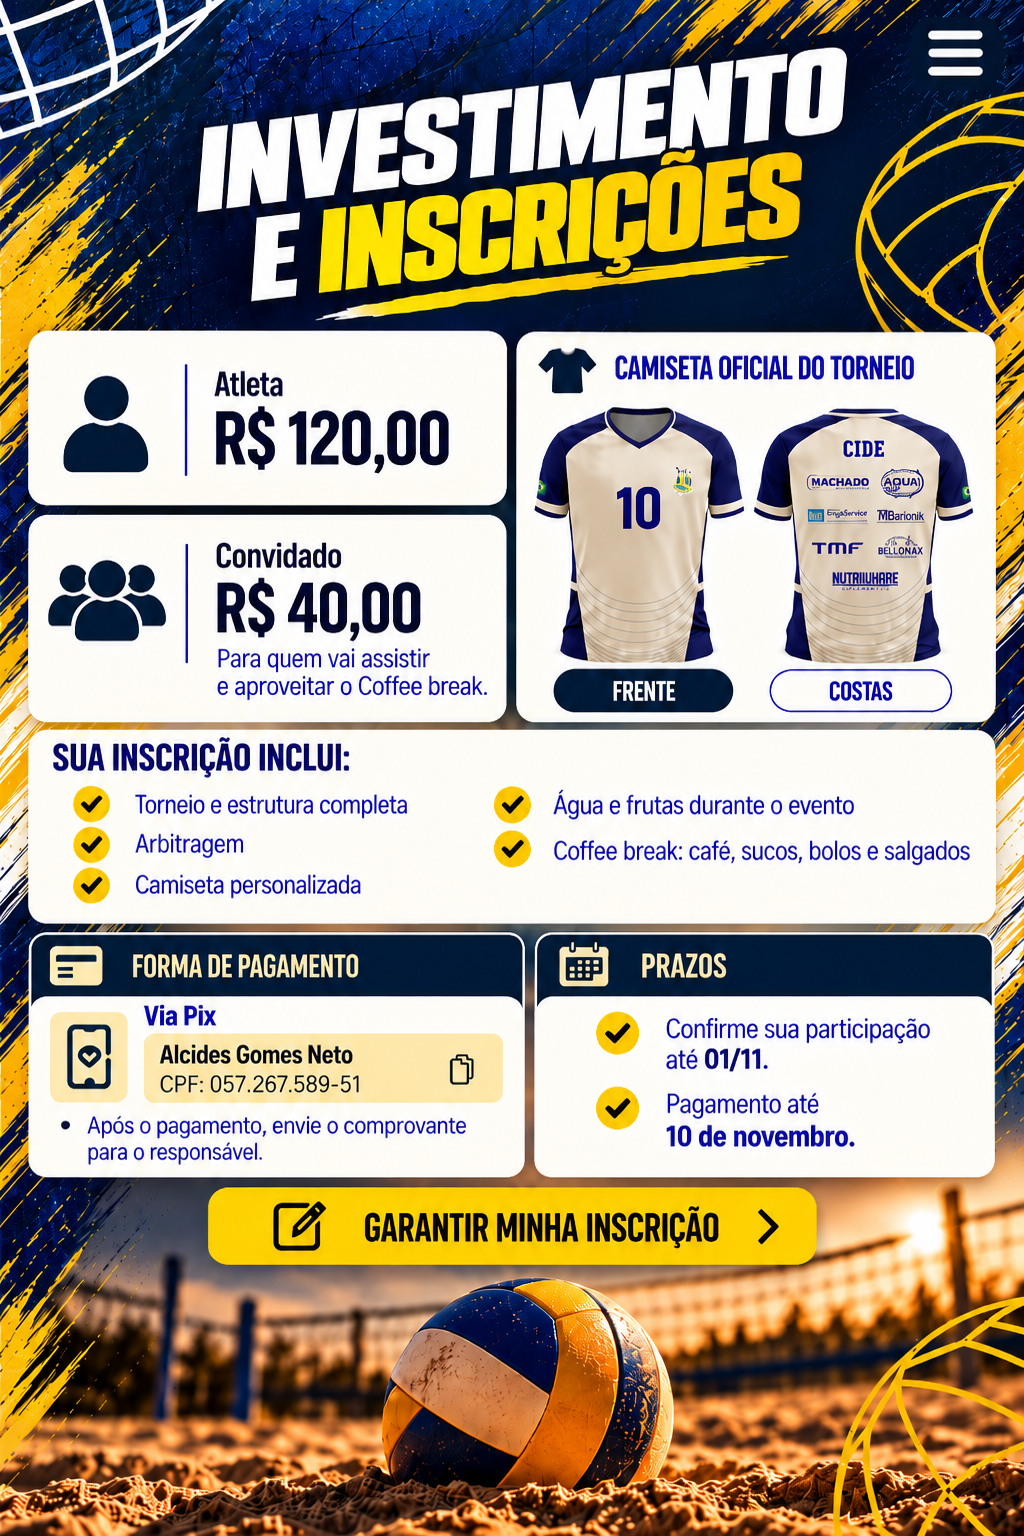
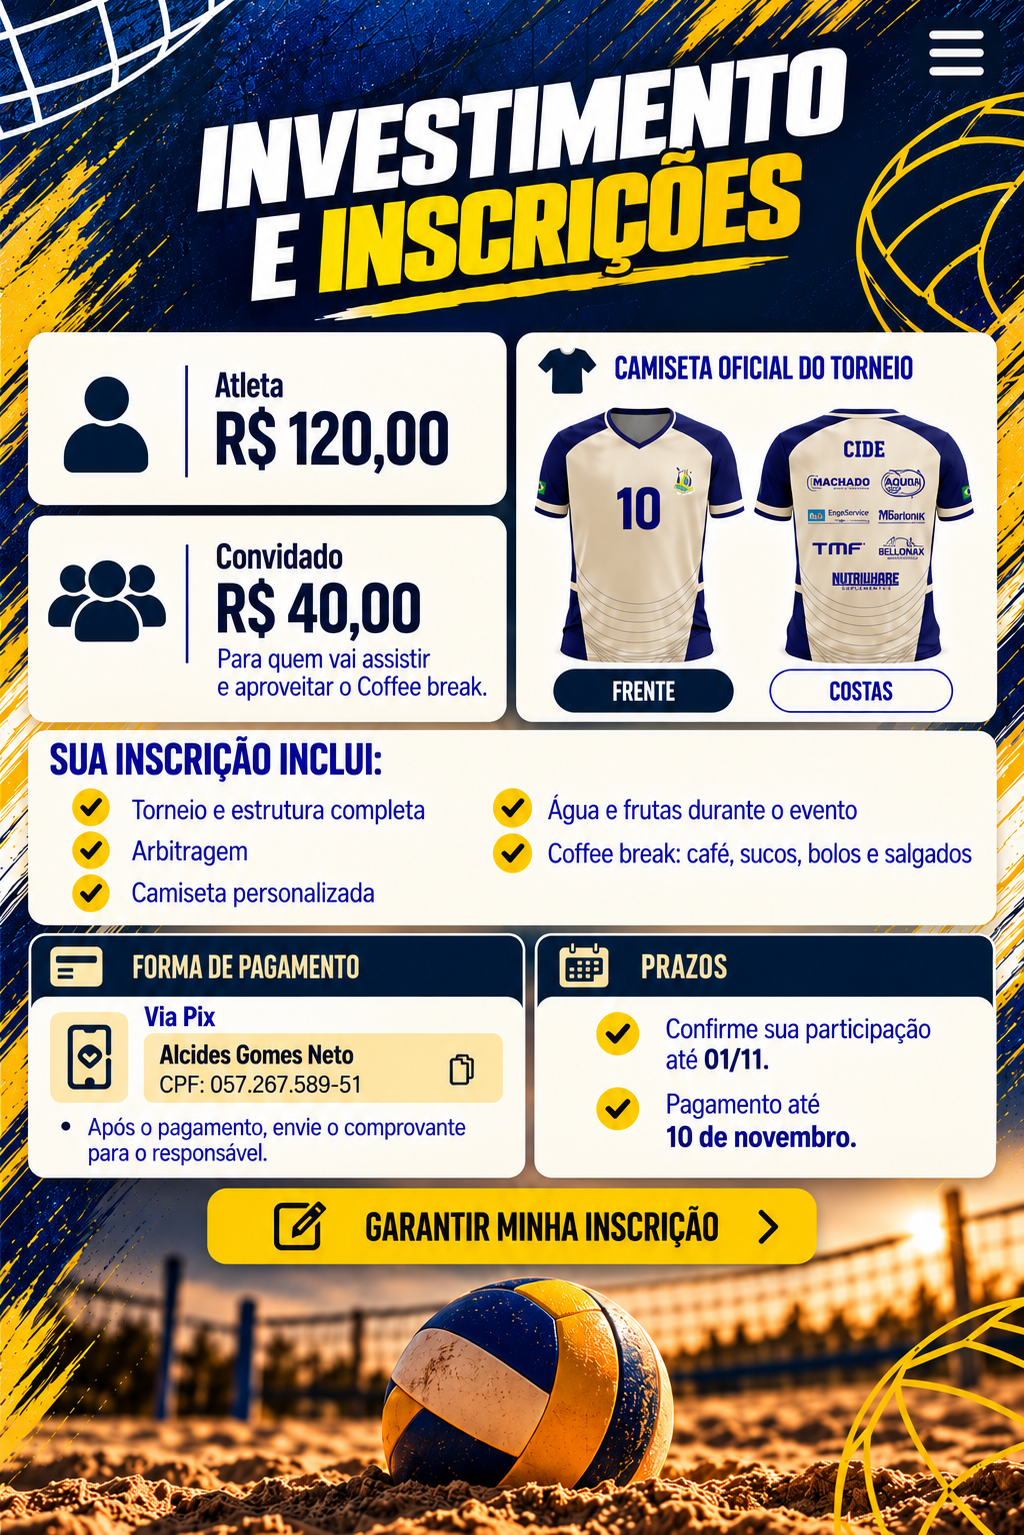
Add files via upload

diff --git a/index.html b/index.html
@@ -24,17 +24,70 @@ main{max-width:650px;margin:auto;position:relative;background:#061737;min-height
 .countdown-unit{border:1.5px solid #ffce17;border-radius:10px;background:#061735;color:#ffce17;font-size:clamp(18px,4.5vw,30px);font-weight:900;font-variant-numeric:tabular-nums;padding:8px 2px 7px;box-shadow:0 4px 12px #0006}
 .countdown-unit small{display:block;color:#ffffff;font-size:clamp(7px,1.5vw,10px);font-weight:800;letter-spacing:0;margin-top:4px}
 .countdown-finished{grid-column:1/-1;background:#ffffff;color:#061735;border:1px solid #ffce17;border-radius:10px;padding:12px;font-weight:900;font-size:clamp(12px,3vw,18px)}
+
+/* Seção Times e Chaveamento: imagem aprovada e abas funcionais */
+#timeschaveamento{background:#f9f6ec;min-height:100dvh}
+.tc-poster{display:block;width:100%;height:auto}
+.tc-chaves{display:none;min-height:100dvh;padding:110px 20px 36px;background:linear-gradient(145deg,#fffdf6,#fff5db);color:#061b42;line-height:1.35;position:relative}
+.tc-chaves h1{font-size:clamp(28px,7vw,46px);font-weight:1000;line-height:1.05;margin:0 0 18px;color:#061b42}
+.tc-tabs{display:flex;gap:8px;margin:0 0 24px}
+.tc-tabs button{flex:1;border:2px solid #061b42;border-radius:20px;padding:12px 4px;font-weight:900;color:#061b42;background:white;cursor:pointer;font-size:clamp(12px,3vw,18px)}
+.tc-tabs button.active{background:#ffca08;border-color:#ffca08}
+.tc-round{background:white;border:1px solid #f3d98a;border-radius:16px;padding:14px;margin-bottom:14px;box-shadow:0 6px 15px #0a193b1a}
+.tc-round h2{font-size:18px;background:#ffca08;display:inline-block;padding:5px 14px;margin:0 0 10px;border-radius:8px}
+.tc-match{display:flex;align-items:center;justify-content:space-between;gap:6px;padding:9px 0;border-top:1px solid #e9e2d1;font-size:clamp(11px,2.8vw,16px);font-weight:800}
+.tc-match span{flex:1}.tc-match span:last-child{text-align:right}.tc-match b{color:#df9600}
+.tc-note{font-size:14px;margin:0 0 20px}
+.tc-menu-fixed{position:absolute;right:4%;top:2%;width:12%;height:5%;border:0;background:transparent;cursor:pointer;z-index:4}
+.tc-menu-chaves{position:absolute;right:20px;top:20px;background:#ffca08;border:0;border-radius:12px;padding:10px 16px;font-weight:900;cursor:pointer}
+
+/* Abas visuais e funcionais, reproduzindo o modelo aprovado */
+.tc-switch{position:absolute;z-index:5;left:3%;right:3%;display:flex;align-items:center;height:5.05%;border:2px solid #071b42;border-radius:999px;background:#fffdfa;box-shadow:0 4px 8px #0002;overflow:hidden;line-height:1}
+.tc-switch button{width:50%;height:100%;border:0;background:transparent;color:#071b42;display:flex;align-items:center;justify-content:center;gap:clamp(4px,1.4vw,11px);font-family:Arial,sans-serif;font-size:clamp(12px,3.6vw,23px);font-style:italic;font-weight:900;cursor:pointer;white-space:nowrap;padding:0 4px}
+.tc-switch button.selected{background:linear-gradient(120deg,#ffcf00,#ffb900);border-radius:999px;box-shadow:0 3px 8px #0003}
+.tc-switch svg{width:clamp(19px,5vw,37px);height:clamp(19px,5vw,37px);fill:currentColor;stroke:currentColor;flex-shrink:0}
+.tc-switch button:focus-visible{outline:3px solid #f5a900;outline-offset:-4px}
+.tc-switch-times{top:25.75%}.tc-switch-chaves{top:14.25%}
+
+/* Vídeo inserido abaixo da arte do menu, sem deslocar os botões e o contador */
+.menu-art{position:relative;width:100%;line-height:0}
+.video-section{position:relative;background:linear-gradient(160deg,#061737,#0c3470);padding:22px 18px 32px;line-height:1.4;text-align:center;border-top:3px solid #ffcb05}
+.video-section h2{margin:0 0 16px;color:#ffcb05;font-size:clamp(18px,4vw,26px);font-weight:900;letter-spacing:.035em}
+.video-section video{display:block;width:min(100%,380px);max-height:75dvh;aspect-ratio:480/856;object-fit:contain;margin:0 auto;background:#020a1a;border:2px solid #ffcb05;border-radius:15px;box-shadow:0 12px 28px #0007}
+
+/* Página de vídeo com arte aprovada e vídeo ampliado */
+#videoabertura{background:#06152f}
+.video-art{position:relative;width:100%;line-height:0}
+.video-art>.poster{width:100%;display:block}
+.video-large{position:absolute;left:7%;top:12%;width:86%;height:69%;display:flex;align-items:center;justify-content:center;line-height:normal}
+.video-large video{width:100%;height:100%;object-fit:contain;background:#000;border:3px solid #ffc800;border-radius:15px;box-shadow:0 12px 35px #000a}
+.video-sound{position:absolute;top:3%;right:3%;z-index:2;border:1px solid #ffcc00;background:#061a3b;color:white;border-radius:25px;padding:10px 14px;font-weight:800;cursor:pointer}
+.video-next{position:absolute;left:17%;top:84%;width:66%;height:8.4%;background:transparent;border:0;cursor:pointer}
+.video-next:focus-visible{outline:3px solid white;outline-offset:2px}
+@media(min-width:700px){.video-large{left:8%;width:84%;top:13%;height:68%}}
 </style></head><body>
 <main>
-<section class="page active" id="inicio"><img class="poster" src="imagens/inicio.png" alt="Abertura do 2º Torneio Vôlei de Sexta"><button class="hit" style="left:18%;top:82%;width:64%;height:8%" aria-label="Entrar no evento" onclick="go('menu')"></button></section>
-<section class="page" id="menu"><img class="poster" src="imagens/menu.png" alt="Menu do torneio">
+<section class="page active" id="inicio"><img class="poster" src="imagens/inicio.png" alt="Abertura do 2º Torneio Vôlei de Sexta"><button class="hit" style="left:18%;top:86.1%;width:64%;height:8.1%" aria-label="Entrar no evento" onclick="go('videoabertura')"></button></section>
+
+<section class="page" id="videoabertura" aria-label="Vídeo de abertura do torneio">
+ <div class="video-art">
+  <img class="poster" src="imagens/video_abertura_fundo.png" alt="Arte azul-marinho e amarela com botão Prosseguir">
+  <div class="video-large">
+   <video id="introVideo" src="videos/video_torneio.mp4" autoplay muted playsinline loop preload="auto" controls aria-label="Vídeo de apresentação do torneio">Seu navegador não suporta vídeos.</video>
+   <button class="video-sound" id="soundToggle" type="button" onclick="toggleIntroSound()">🔇 ATIVAR SOM</button>
+  </div>
+  <button class="video-next" type="button" aria-label="Prosseguir para o menu" onclick="go('menu')"></button>
+ </div>
+</section>
+<section class="page" id="menu"><div class="menu-art"><img class="poster" src="imagens/menu.png" alt="Menu do torneio">
 <button class="hit" style="left:4%;top:33.8%;width:45%;height:11%" aria-label="Informações gerais" onclick="go('informacoes')"></button>
 <button class="hit" style="left:51%;top:33.8%;width:45%;height:11%" aria-label="Investimento e inscrições" onclick="go('inscricoes')"></button>
 <button class="hit" style="left:4%;top:45.4%;width:45%;height:11%" aria-label="Regulamento" onclick="go('regulamento')"></button>
-<button class="hit" style="left:51%;top:45.4%;width:45%;height:11%" aria-label="Times e chaveamento" onclick="modal('breve')"></button>
+<button class="hit" style="left:51%;top:45.4%;width:45%;height:11%" aria-label="Times e chaveamento" onclick="openTimes()"></button>
 <button class="hit" style="left:4%;top:57%;width:45%;height:11%" aria-label="Premiações" onclick="go('premiacoes')"></button>
 <button class="hit" style="left:51%;top:57%;width:45%;height:11%" aria-label="Fotografia oficial" onclick="go('fotografia')"></button>
 <div class="countdown" role="timer" aria-label="Contagem regressiva para o torneio"><div class="countdown-title">CONTAGEM REGRESSIVA</div><div class="countdown-grid" id="countdown-values"><div class="countdown-unit">--<small>DIAS</small></div><div class="countdown-unit">--<small>HORAS</small></div><div class="countdown-unit">--<small>MINUTOS</small></div><div class="countdown-unit">--<small>SEGUNDOS</small></div></div></div>
+</div>
 </section>
 <section class="page" id="informacoes"><img class="poster" src="imagens/informacoes.png" alt="Informações gerais do torneio">
 <button class="hit" style="right:5%;top:1%;width:12%;height:6%" aria-label="Abrir menu" onclick="go('menu')"></button>
@@ -51,11 +104,26 @@ main{max-width:650px;margin:auto;position:relative;background:#061737;min-height
 <section class="page" id="fotografia"><img class="poster" src="imagens/fotografia.png" alt="Fotografia oficial pela Foco Radical">
 <button class="hit" style="right:4%;top:1%;width:12%;height:6%" aria-label="Abrir menu" onclick="go('menu')"></button>
 <a class="hit" style="left:8%;top:74%;width:85%;height:9%" href="https://www.focoradical.com.br/" target="_blank" rel="noopener" aria-label="Conheça a Foco Radical"></a></section>
+<section class="page" id="timeschaveamento"><div id="tc-times" style="position:relative"><img class="tc-poster" src="imagens/times.png" alt="Times do torneio: seis equipes, logos e integrantes"><button class="hit" style="left:50%;top:25.7%;width:44%;height:5.1%;z-index:5" aria-label="Ver chaveamento" onclick="setTCTab('chaveamento')"></button><button class="hit" style="right:3%;top:1%;width:14%;height:7%" aria-label="Abrir menu" onclick="go('menu')"></button></div><div id="tc-chaves" style="display:none;position:relative"><img class="tc-poster" src="imagens/chaveamento.png" alt="Chaveamento oficial: 15 jogos classificatórios, semifinais e final"><button class="hit" style="left:10%;top:13.2%;width:38%;height:5.5%;z-index:5" aria-label="Ver times" onclick="setTCTab('times')"></button><button class="hit" style="right:2%;top:1%;width:14%;height:7%" aria-label="Abrir menu" onclick="go('menu')"></button></div></section>
 </main>
 <div class="modal" id="overlay" role="dialog" aria-modal="true" aria-labelledby="modalTitle" onclick="if(event.target===this)closeModal()"><div class="dialog"><button class="close" onclick="closeModal()" aria-label="Fechar">×</button><div id="modalContent"></div></div></div>
 <div class="notice" id="notice">Chave Pix copiada!</div>
 <script>
-function go(id){document.querySelectorAll('.page').forEach(e=>e.classList.toggle('active',e.id===id));window.scrollTo(0,0);history.replaceState(null,'','#'+id)}
+function openTimes(){setTCTab('times');go('timeschaveamento')}
+function setTCTab(tab){document.getElementById('tc-times').style.display=tab==='times'?'block':'none';document.getElementById('tc-chaves').style.display=tab==='chaveamento'?'block':'none';window.scrollTo(0,0)}
+function go(id){
+ const video=document.getElementById('introVideo');
+ if(video && id!=='videoabertura'){video.pause();video.currentTime=0;video.muted=true;const btn=document.getElementById('soundToggle');if(btn)btn.textContent='🔇 ATIVAR SOM'}
+ document.querySelectorAll('.page').forEach(e=>e.classList.toggle('active',e.id===id));
+ window.scrollTo(0,0);history.replaceState(null,'','#'+id);
+ if(video && id==='videoabertura'){video.muted=true;video.play().catch(()=>{})}
+}
+function toggleIntroSound(){
+ const video=document.getElementById('introVideo'),btn=document.getElementById('soundToggle');
+ video.muted=!video.muted;
+ btn.textContent=video.muted?'🔇 ATIVAR SOM':'🔊 DESATIVAR SOM';
+ if(video.paused)video.play().catch(()=>{});
+}
 const rules=`<h2 id="modalTitle">Regras gerais do jogo</h2>
 <h3>Regras do jogo</h3><ul>
 <li>A altura da rede será de 2,35 m.</li>
